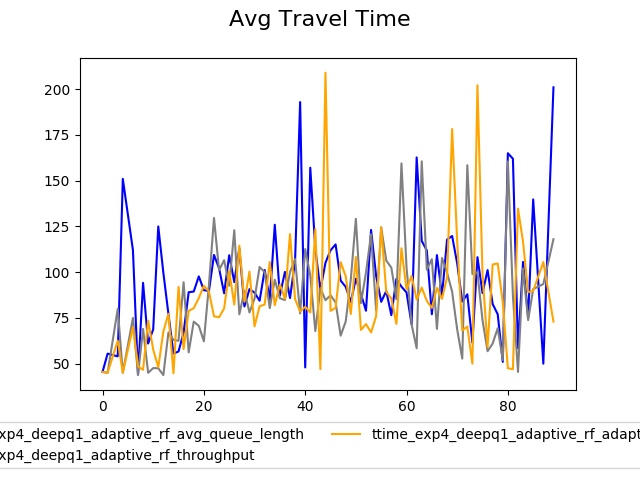
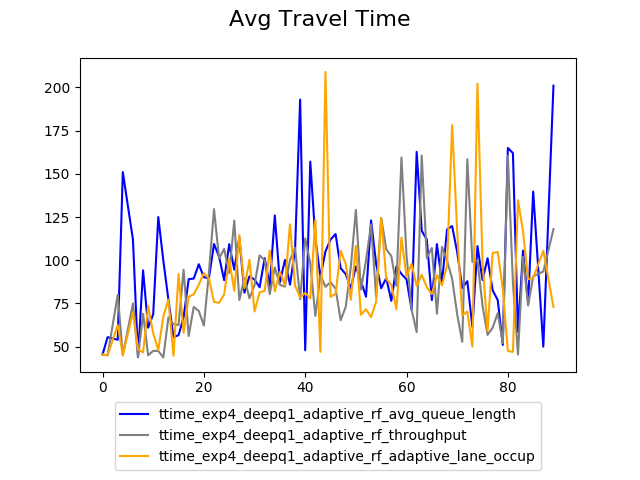
Executed Experiment #4

diff --git a/stats/stats_plotter.py b/stats/stats_plotter.py
@@ -111,12 +111,12 @@ def createSinglePlotAveragesOnly(folder, label, experimentParams, file_prefix, y
 
     # Shrink current axis's height by 10% on the bottom
     box = ax.get_position()
-    ax.set_position([box.x0, box.y0 + box.height * 0.1,
-                     box.width, box.height * 0.9])
+    ax.set_position([box.x0, box.y0 + box.height * 0.15,
+                     box.width, box.height * 0.85])
 
     # Put a legend below current axis
     ax.legend(loc='upper center', bbox_to_anchor=(0.5, -0.075),
-          fancybox=True, ncol=2)
+          fancybox=True, ncol=1)
     plt.savefig(f"output/{folder}/{label}_single.png")
 
 def createPlotAveragesOnly(folder, label, experimentParams, file_prefix, y_column, discretizeStepBy = None):
